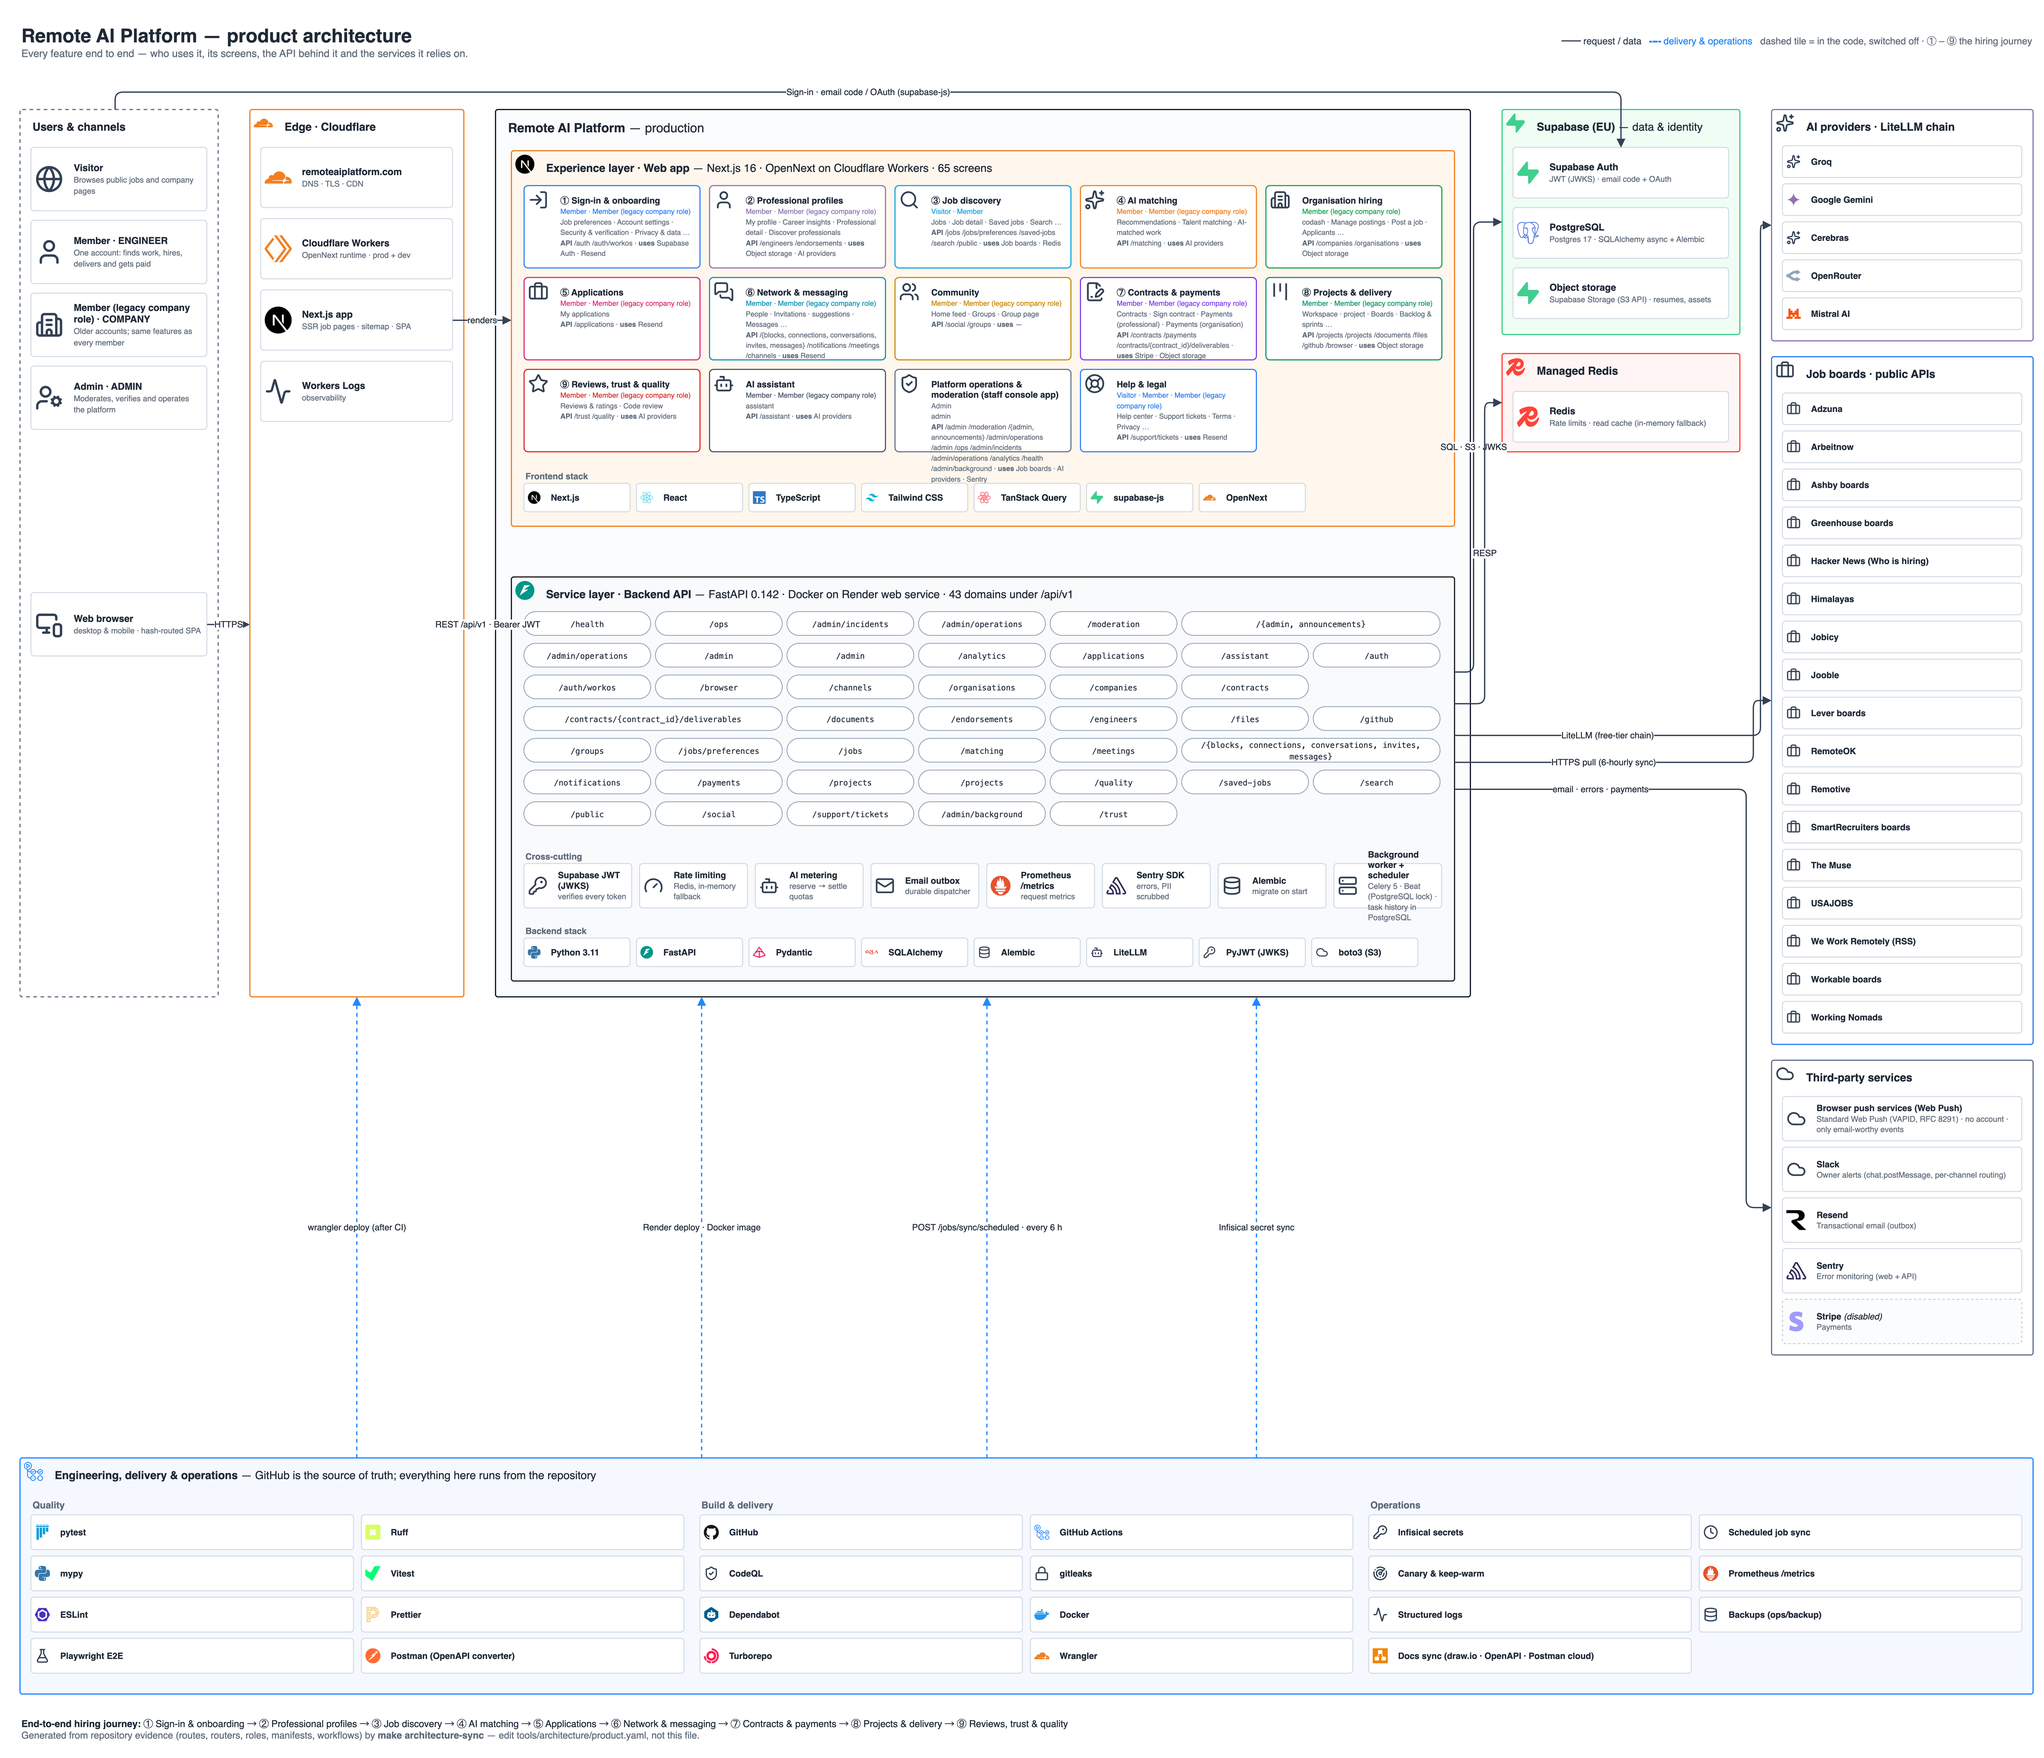
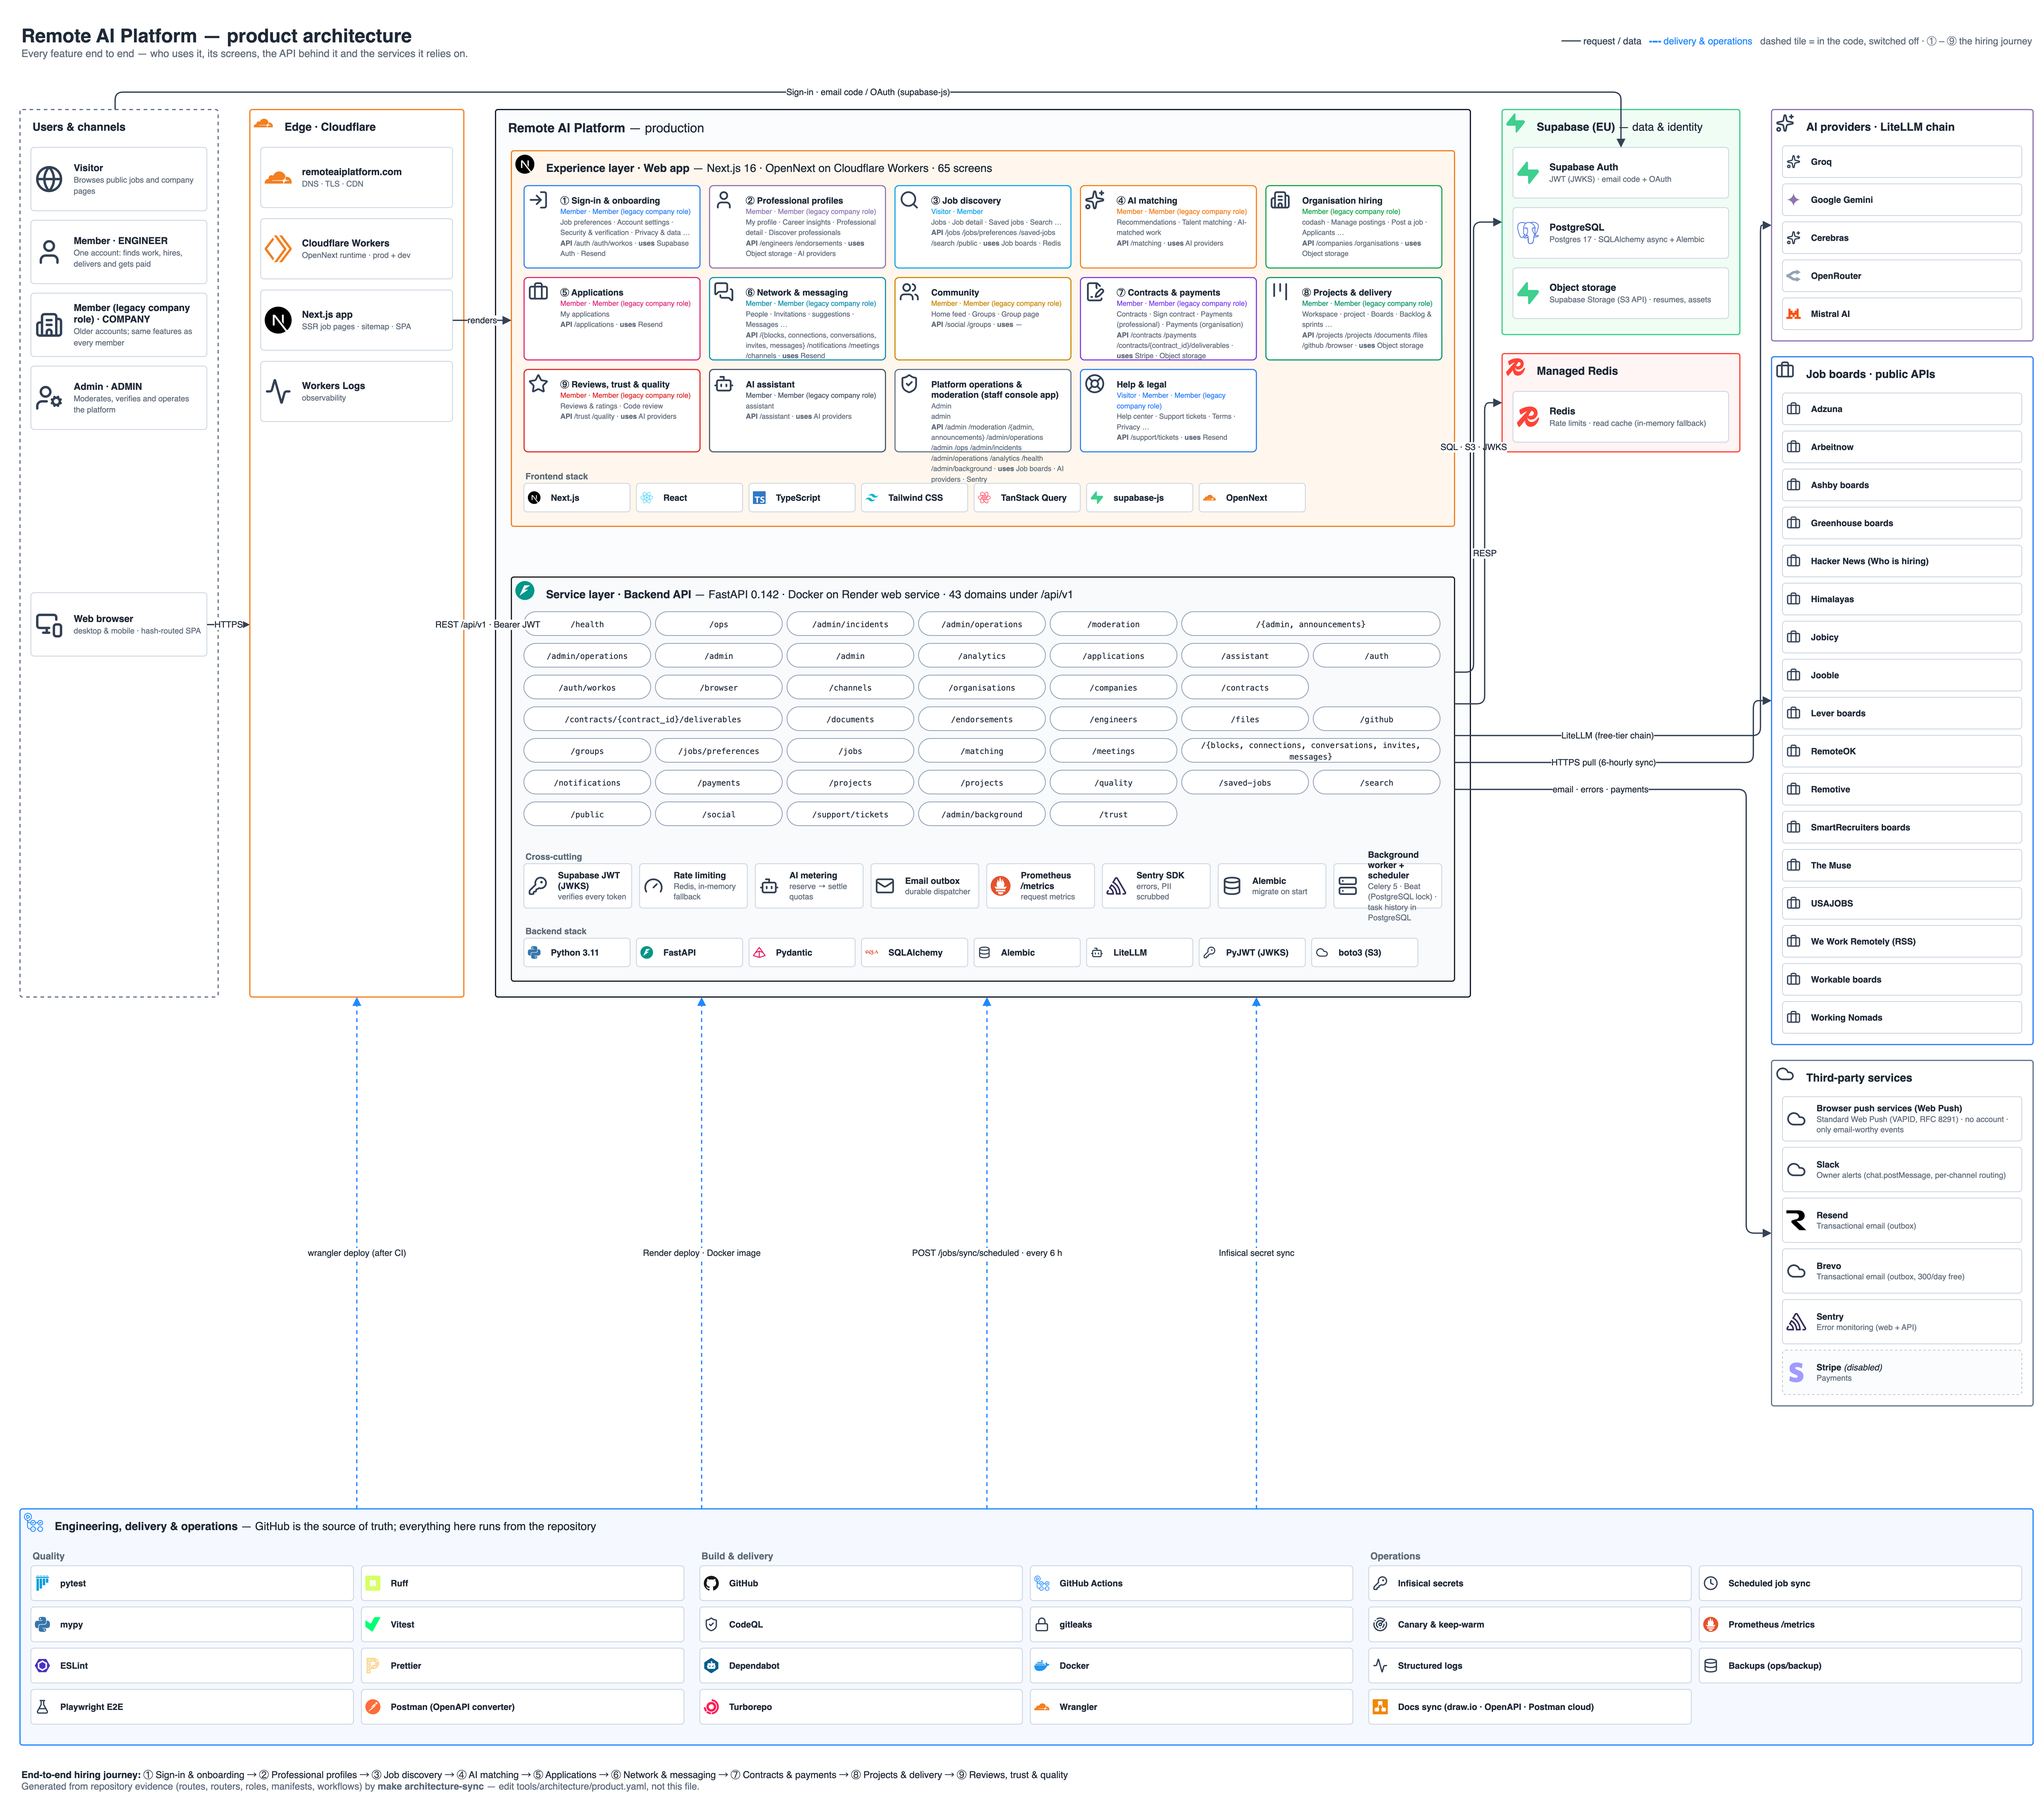
chore: Brevo in architecture catalog; split multi-part asserts; precise pytest.raises

diff --git a/apps/api/tests/test_slack_notifications.py b/apps/api/tests/test_slack_notifications.py
@@ -72,7 +72,8 @@ async def test_disabled_without_token_or_channel(monkeypatch):
 async def test_post_dedup_rate_limit_and_failures(sent, monkeypatch):
     assert await slack.post("critical", "one", dedup_key="k", fields={"a": 1, "b": None})
     assert await slack.post("critical", "one again", dedup_key="k") is False
-    assert "• *a*: 1" in sent[0][1] and "*b*" not in sent[0][1]
+    assert "• *a*: 1" in sent[0][1]
+    assert "*b*" not in sent[0][1]
     assert sent[0][1].startswith("[development] ")
     monkeypatch.setattr(settings, "SLACK_MAX_PER_MINUTE", 2)
     assert await slack.post("critical", "two")
@@ -110,10 +111,13 @@ async def test_audit_hook_routes_security_and_incidents(sent, monkeypatch):
     )
     await slack.drain()
     sec = channels(sent, "C_SEC")
-    assert len(sec) == 2 and "Member role changed" in sec[0] and "token" not in sec[0]
+    assert len(sec) == 2
+    assert "Member role changed" in sec[0]
+    assert "token" not in sec[0]
     crit = channels(sent, "C_CRIT")
     assert len(crit) == 2
-    assert "Incident opened (SEV1)" in crit[0] and "admin.example.com" in crit[0]
+    assert "Incident opened (SEV1)" in crit[0]
+    assert "admin.example.com" in crit[0]
     assert "Incident resolved" in crit[1]
 
 
@@ -146,7 +150,8 @@ async def test_backup_report_posts(sent, client: AsyncClient, monkeypatch):
     assert (await client.post("/api/v1/ops/backups/report", json=bad, headers=h)).status_code == 201
     await slack.drain()
     bak = channels(sent, "C_BAK")
-    assert "Backup success" in bak[0] and "size_mb*: 2.0" in bak[0]
+    assert "Backup success" in bak[0]
+    assert "size_mb*: 2.0" in bak[0]
     assert any("failed" in t for t in bak)
     assert "disk full" in channels(sent, "C_CRIT")[0]
 
@@ -167,7 +172,8 @@ async def test_uptime_hook_requires_token_and_relays(sent, client: AsyncClient, 
             "alertDetails": "timeout",
         },
     )
-    assert res.status_code == 202 and res.json() == {"relayed": True}
+    assert res.status_code == 202
+    assert res.json() == {"relayed": True}
     res = await client.post(
         url,
         data={"monitorFriendlyName": "Web", "alertTypeFriendlyName": "Up"},
@@ -175,7 +181,8 @@ async def test_uptime_hook_requires_token_and_relays(sent, client: AsyncClient, 
     )
     assert res.json() == {"relayed": True}
     crit = channels(sent, "C_CRIT")
-    assert ":red_circle: External monitor: API ready is Down" in crit[0] and "timeout" in crit[0]
+    assert ":red_circle: External monitor: API ready is Down" in crit[0]
+    assert "timeout" in crit[0]
     assert ":large_green_circle:" in crit[1]
 
 
@@ -243,7 +250,8 @@ async def test_health_degradation_alert(sent, client: AsyncClient):
     )
     await slack.drain()
     crit = channels(sent, "C_CRIT")
-    assert len(crit) == 1 and "Redis is DOWN" in crit[0]
+    assert len(crit) == 1
+    assert "Redis is DOWN" in crit[0]
     await client.get("/health/ready")  # exercises the hook inside the endpoint
     await slack.drain()
 
@@ -271,7 +279,8 @@ async def test_dead_letter_and_stale_heartbeat(sent):
         await db.commit()
         assert (await ops.check_liveness(db))["stale"] == ["worker"]
     crit = channels(sent, "C_CRIT")
-    assert "dead letters: x.task" in crit[0] and "boom" in crit[0]
+    assert "dead letters: x.task" in crit[0]
+    assert "boom" in crit[0]
     assert "No fresh worker heartbeat" in crit[1]
 
 
@@ -297,10 +306,13 @@ async def test_daily_import_summary_and_backup_check(sent):
         )
         await db.commit()
         out = await ops.daily_import_summary(db)
-        assert out["saved"] == 7 and out["failing"] == 1
+        assert out["saved"] == 7
+        assert out["failing"] == 1
         assert (await ops.check_backups(db))["status"] == "no_evidence"
     job = channels(sent, "C_JOB")[0]
-    assert "succeeded 1" in job and "7 jobs saved" in job and "REMOTIVE (2x" in job
+    assert "succeeded 1" in job
+    assert "7 jobs saved" in job
+    assert "REMOTIVE (2x" in job
     assert "No successful backup" in channels(sent, "C_BAK")[0]
     assert "No successful backup" in channels(sent, "C_CRIT")[0]
 

diff --git a/apps/api/tests/test_push_notifications.py b/apps/api/tests/test_push_notifications.py
@@ -122,7 +122,8 @@ async def test_config_and_subscription_endpoints(
         rows = (await db.execute(select(PushSubscription))).scalars().all()
         assert len(rows) == 1
         assert rows[0].revoked_at is None
-        assert rows[0].p256dh == UA_PUB and rows[0].auth_secret == AUTH
+        assert rows[0].p256dh == UA_PUB
+        assert rows[0].auth_secret == AUTH
     assert (
         await client.request(
             "DELETE", "/api/v1/notifications/push/subscriptions", json={"token": TOKEN}, headers=h
@@ -271,5 +272,5 @@ def test_pem_private_key_and_payload_limit(monkeypatch):
     monkeypatch.setattr(settings, "WEB_PUSH_VAPID_PRIVATE_KEY", pem)
     monkeypatch.setattr(settings, "WEB_PUSH_VAPID_PUBLIC_KEY", "pub")
     assert push_mod.vapid_header("https://push.example.com/x").startswith("vapid t=")
-    with pytest.raises(ValueError):
+    with pytest.raises(ValueError, match="too large"):
         push_mod.encrypt(b"x" * 5000, UA_PUB, AUTH)
